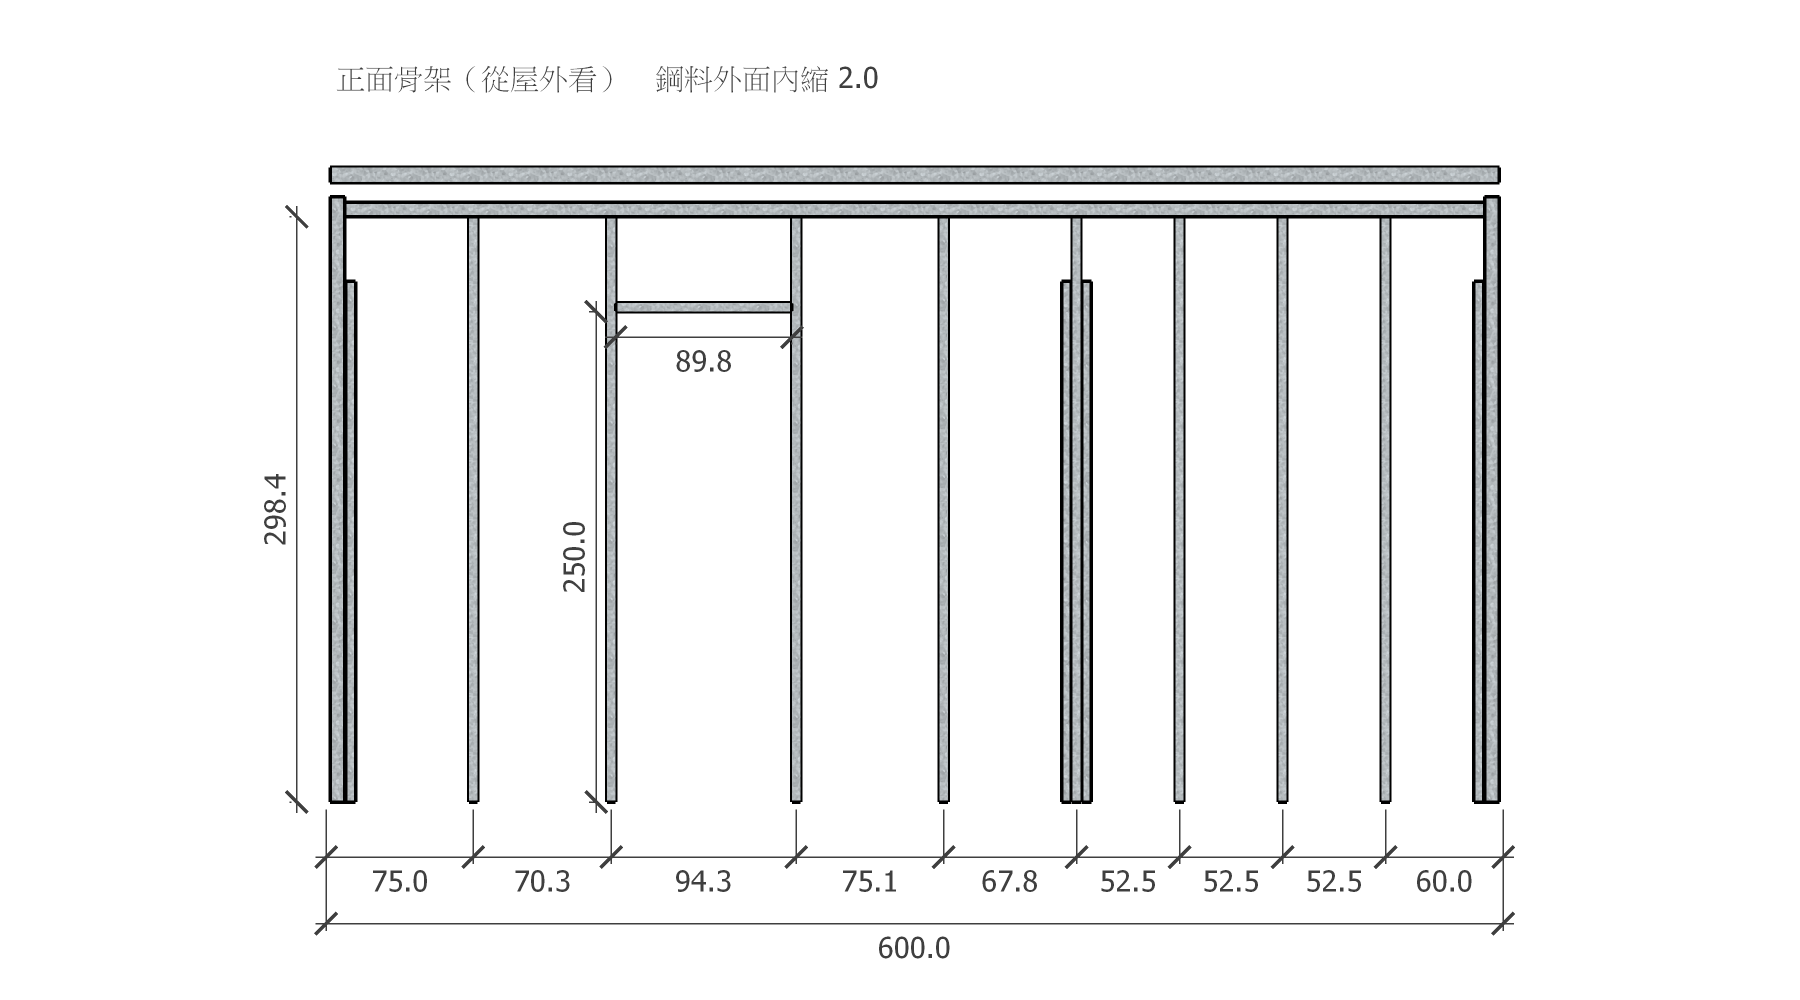
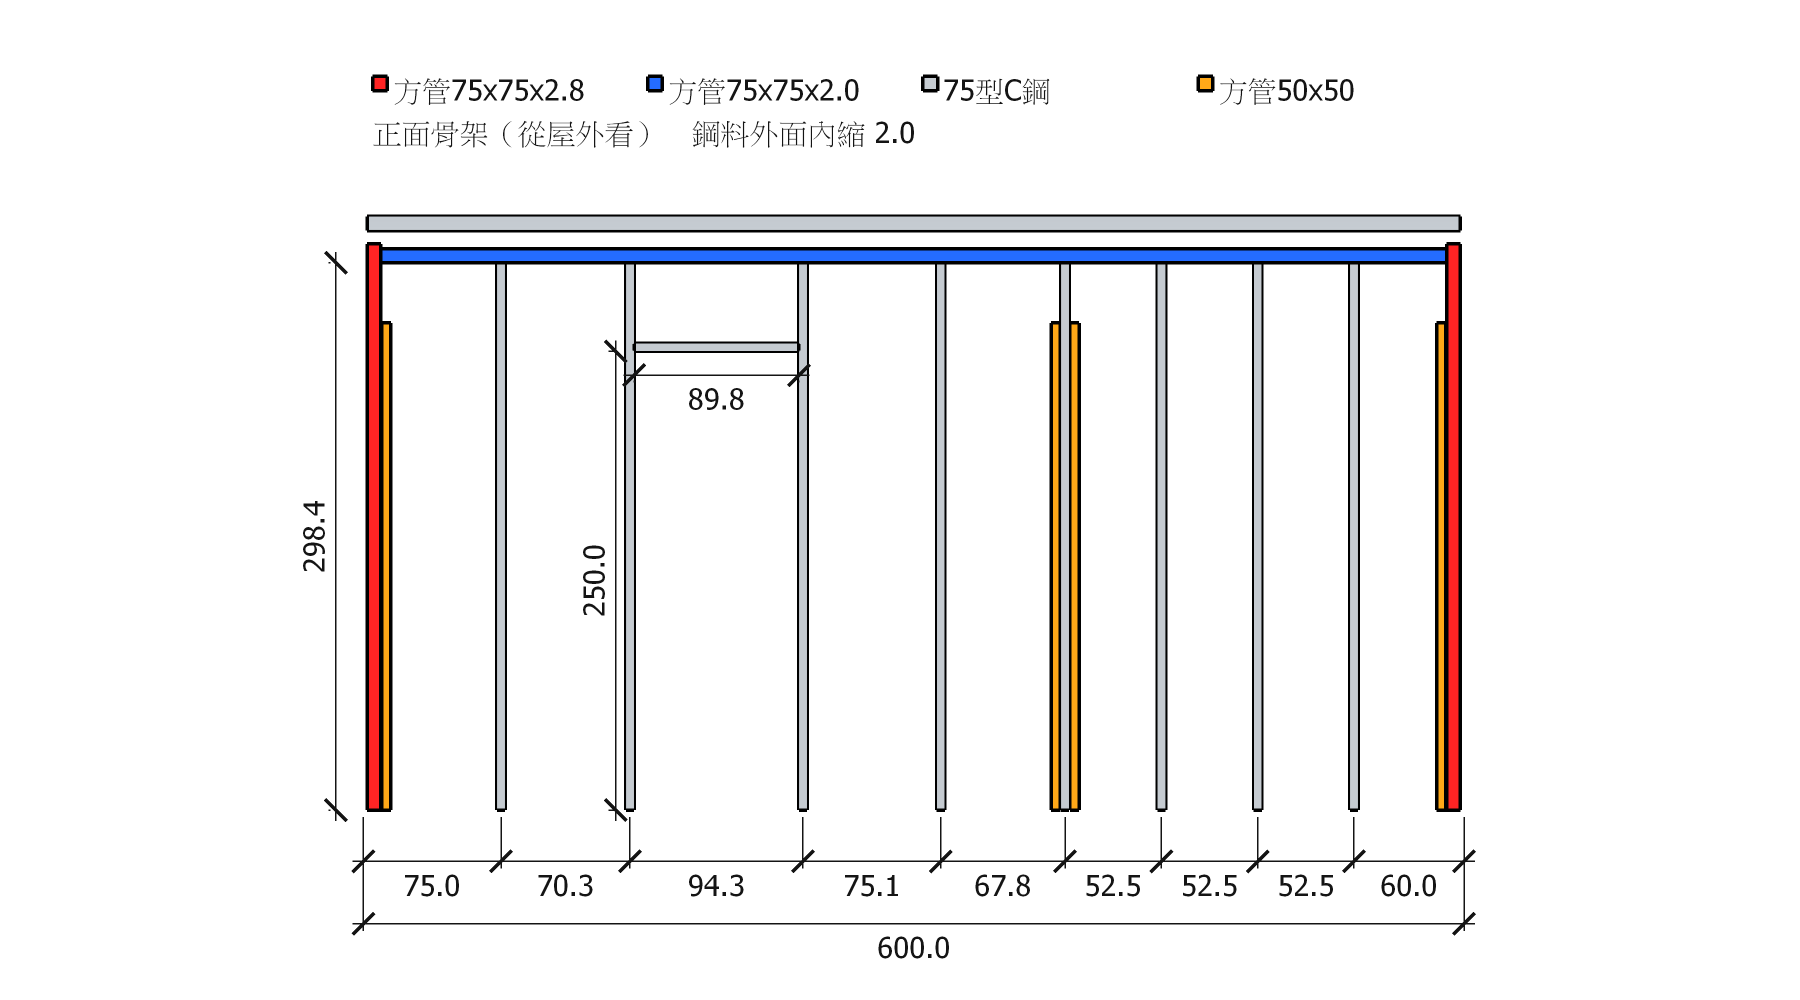
4x6骨架施工圖：料依顏色區分＋圖例
Claude-Session: https://claude.ai/code/session_01LhZad5V9yGZa6W9osKj3sN

Changed region(s): [[0.1244, 0.062, 0.84, 0.93], [0.6533, 0.062, 0.7467, 0.124], [0.4667, 0.93, 0.5289, 0.961]]

diff --git a/4x6-frame.html b/4x6-frame.html
@@ -24,7 +24,7 @@ nav a{padding:6px 12px;border:1px solid var(--line);border-radius:16px;backgroun
 </head>
 <body>
 <h1>4x6鋼構屋 骨架施工圖</h1>
-<p class="note">尺寸單位公分。間距＝中心到中心，從底盤外緣量起；牆骨架鋼料外面離底盤外緣內縮 2。門窗標的是淨洞口。點圖可以放大看。</p>
+<p class="note">尺寸單位公分。間距＝中心到中心，從底盤外緣量起；牆骨架鋼料外面離底盤外緣內縮 2。門窗標的是淨洞口。料依顏色分：紅＝方管75x75x2.8、藍＝方管75x75x2.0、灰＝75型C鋼、橘＝方管50x50、綠＝方管30x30、紫＝150型C鋼。點圖可以放大看。</p>
 <nav>
   <a href="#front">正面</a><a href="#back">背面</a><a href="#left">左牆</a><a href="#right">右牆</a><a href="#floor">地板支架</a><a href="#roof">屋頂橫樑</a>
 </nav>
